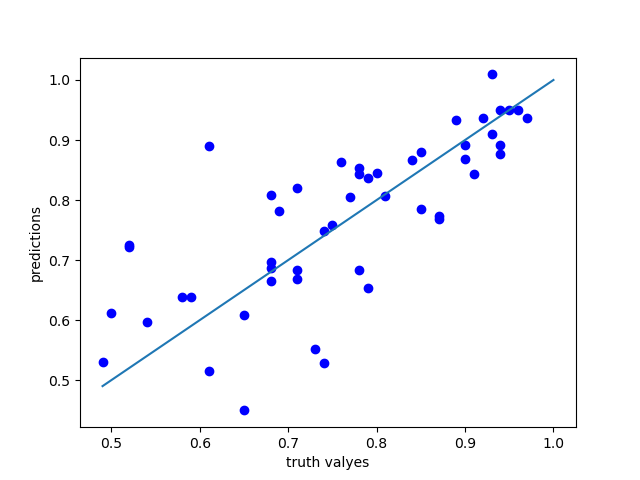
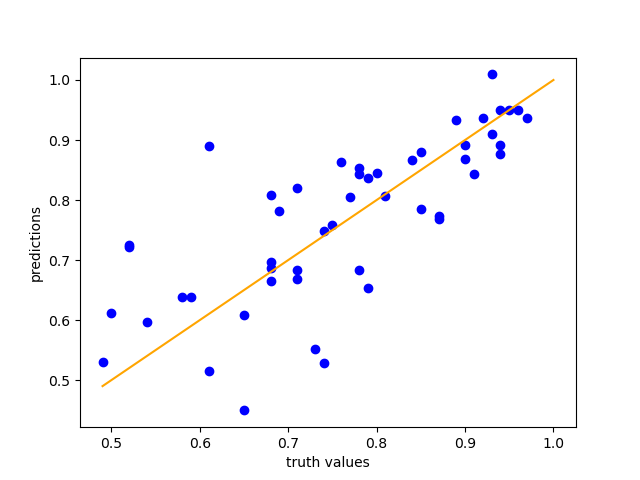
replot color

diff --git a/util/plots.py b/util/plots.py
@@ -156,8 +156,8 @@ def plot_predictions_with_truth(model, X_test, y_test, num_obs, plot_name, title
 
     fig = plt.figure()
     plt.scatter(y_test, predictions, color='b')
-    plt.plot(np.linspace(np.min(y_test), 1, 100), np.linspace(np.min(y_test), 1, 100))
-    plt.xlabel('truth valyes')
+    plt.plot(np.linspace(np.min(y_test), 1, 100), np.linspace(np.min(y_test), 1, 100), color='orange')
+    plt.xlabel('truth values')
     plt.ylabel('predictions')
 
     fig.savefig(path+plot_name) if path else fig.savefig('./figures/'+plot_name)
